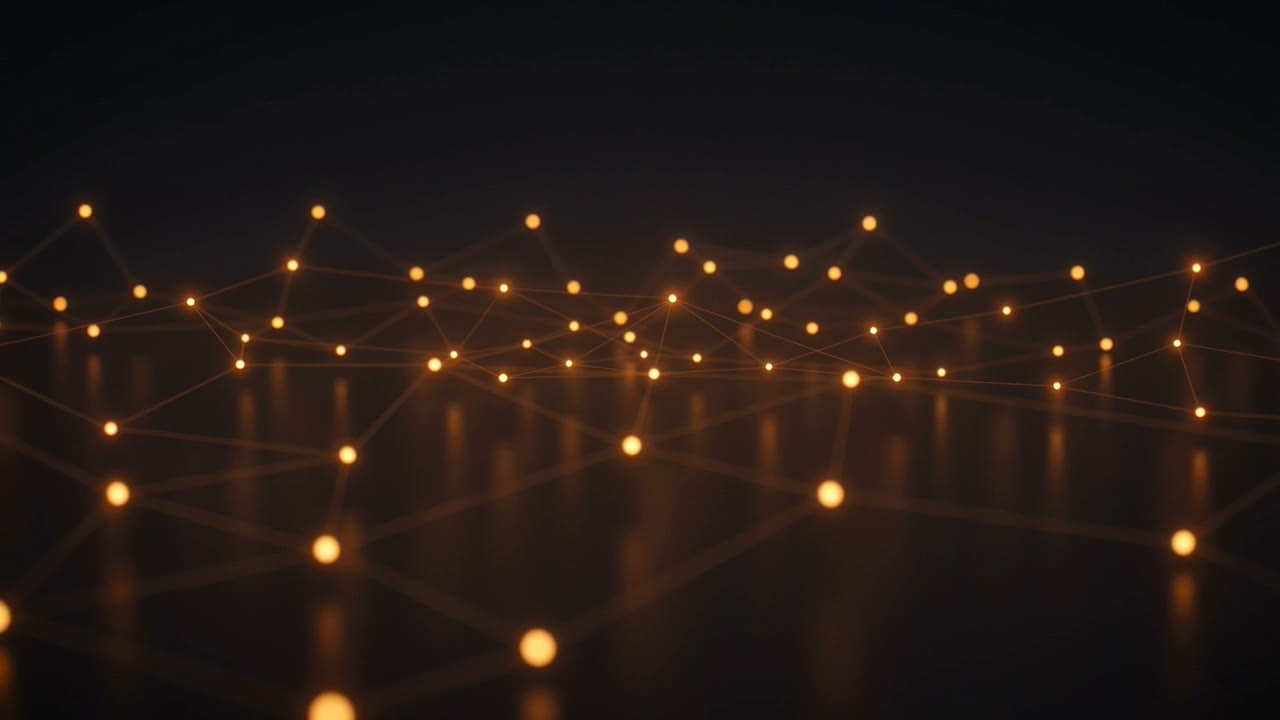
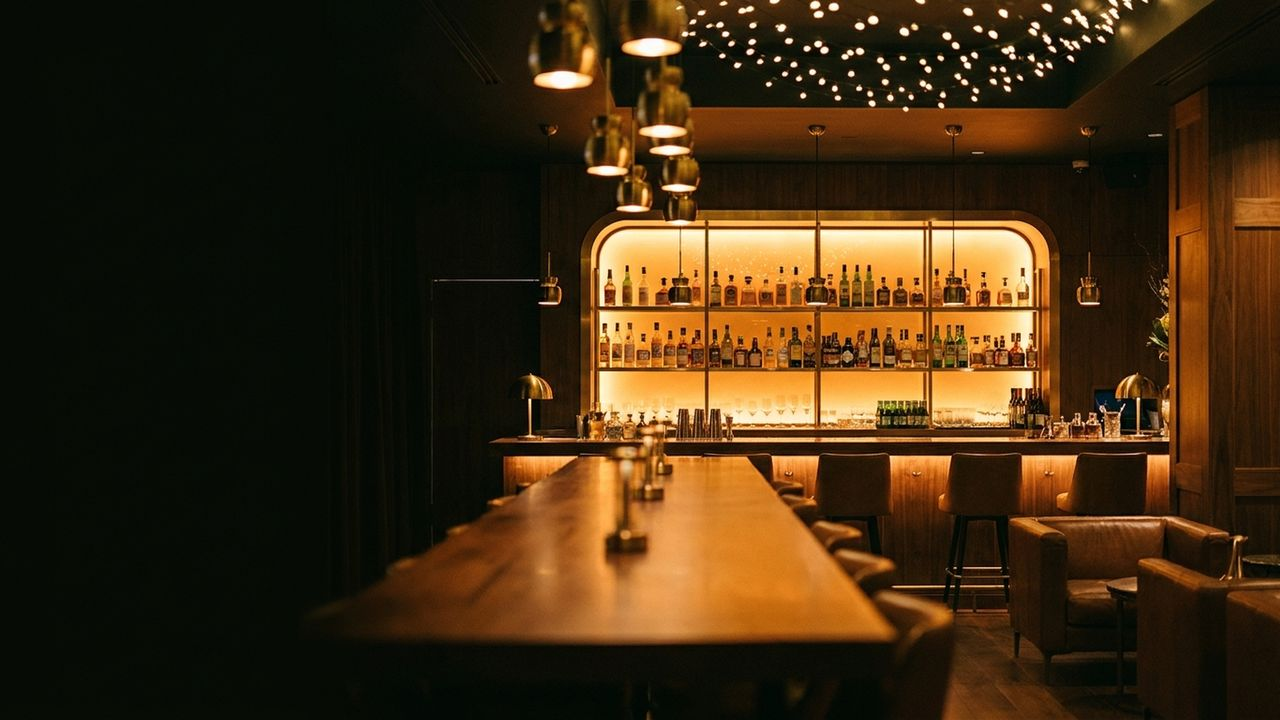
feat(site): warmer bar hero with animated lights + walkthrough nav gold
Replace the formal black-tie video hero with a warm premium lounge bar image
(no people, no formal crowd), optimized to a 98KB webp. The old 1.85MB hero-bg
png and 233KB mp4 are no longer loaded. Add a tasteful twinkling-lights overlay
(12 warm bokeh points, slow CSS twinkle, reduced-motion safe) over the top,
in place of the removed particle network.

Walkthrough: push the nav active accent to gold to match the landing.

diff --git a/index.html b/index.html
@@ -171,6 +171,11 @@
         linear-gradient(180deg, rgba(7,17,31,.62) 0%, rgba(7,17,31,.32) 34%, rgba(7,17,31,.94) 100%),
         radial-gradient(120% 95% at 74% 16%, transparent 0%, rgba(7,17,31,.28) 52%, rgba(7,17,31,.86) 100%);
     }
+
+    .mh-lights { position:absolute; inset:0; z-index:3; pointer-events:none; overflow:hidden; }
+    .mh-lights .lt { position:absolute; width:var(--s,10px); height:var(--s,10px); border-radius:50%; background:radial-gradient(circle, rgba(255,224,156,.95) 0%, rgba(255,206,120,.5) 38%, rgba(255,200,110,0) 72%); opacity:.5; animation:heroTwinkle var(--d,4.5s) ease-in-out infinite; animation-delay:var(--delay,0s); }
+    @keyframes heroTwinkle { 0%,100%{opacity:.26; transform:scale(.82);} 50%{opacity:.95; transform:scale(1.18);} }
+    @media (prefers-reduced-motion: reduce){ .mh-lights .lt { animation:none; opacity:.55; } }
     .hero-motion .hero-layout { position:relative; z-index:4; width:100%; grid-template-columns:1fr; gap:34px; padding-top:110px; padding-bottom:64px; align-items:end; }
     .hero-motion .hero-copy { max-width:920px; }
     .hero-motion .hero-kicker { color:var(--maroon); }
@@ -304,23 +309,13 @@
       <!-- z-0 poster floor: shows with JS off / while video buffers / under reduced-motion -->
       <img loading="lazy" class="mh-poster" src="assets/hero-poster.jpg" alt="" aria-hidden="true"
            onerror="this.style.display='none'">
-      
-      <span>
-        <img loading="lazy" class="mh-bg" src="assets/brand/hero-bg.png" alt="" aria-hidden="true"
-             onerror="this.style.display='none'">
-      </span>
       <!-- z-0 full-bleed bar-lounge scene: warm, demo-safe brand backdrop for the first viewport -->
       <img loading="lazy" class="mh-scene" src="assets/brand/hero-bar-scene.webp" alt="" aria-hidden="true"
            onerror="this.style.display='none'">
       <!-- z-1 canvas particle-network: animated gold-on-dark fallback when the video is absent -->
-      
-      <!-- z-2 looping cinematic video background (assets/hero-bg.mp4) -->
-      <video class="mh-video" autoplay muted loop playsinline preload="auto"
-             poster="assets/hero-poster.jpg" aria-hidden="true">
-        <source src="assets/hero-bg.mp4" type="video/mp4">
-      </video>
       <!-- z-3 dark gradient scrim: keeps headline + body legible over the motion -->
       <div class="mh-scrim" aria-hidden="true"></div>
+      <div class="mh-lights" aria-hidden="true"><span class="lt" style="left:46%;top:7%;--s:12px;--d:4.2s;--delay:0s;"></span><span class="lt" style="left:54%;top:14%;--s:8px;--d:5.1s;--delay:1.1s;"></span><span class="lt" style="left:62%;top:5%;--s:14px;--d:3.8s;--delay:0.5s;"></span><span class="lt" style="left:70%;top:12%;--s:9px;--d:4.8s;--delay:2.0s;"></span><span class="lt" style="left:78%;top:8%;--s:11px;--d:5.4s;--delay:0.8s;"></span><span class="lt" style="left:84%;top:16%;--s:7px;--d:4.0s;--delay:1.6s;"></span><span class="lt" style="left:58%;top:20%;--s:10px;--d:5.0s;--delay:2.6s;"></span><span class="lt" style="left:74%;top:21%;--s:8px;--d:3.6s;--delay:0.3s;"></span><span class="lt" style="left:90%;top:11%;--s:9px;--d:4.6s;--delay:1.3s;"></span><span class="lt" style="left:66%;top:9%;--s:13px;--d:5.6s;--delay:2.2s;"></span><span class="lt" style="left:50%;top:4%;--s:7px;--d:4.4s;--delay:3.0s;"></span><span class="lt" style="left:88%;top:6%;--s:10px;--d:3.9s;--delay:0.9s;"></span></div>
 
       <div class="hero-layout">
         <div class="hero-copy reveal">

diff --git a/assets/mockups/walkthrough/index.html b/assets/mockups/walkthrough/index.html
@@ -13,6 +13,7 @@
       --slate: #64748B;
       --teal: #0D9488;
       --gold: #D6A94A;
+      --gold-soft: rgba(214,169,74,.18);
       --teal-soft: #CCFBF1;
       --bg: #F8FAFC;
       --card: #FFFFFF;
@@ -34,8 +35,8 @@
     .nav-title { font-size: 12px; color: var(--slate); text-transform: uppercase; letter-spacing: .12em; margin: 0 0 12px; }
     .nav-item { width: 100%; border: 0; background: transparent; color: var(--slate); text-align: left; border-radius: 14px; padding: 12px 12px; margin: 3px 0; cursor: pointer; display: flex; gap: 10px; align-items: center; font: inherit; }
     .nav-item span:first-child { width: 28px; height: 28px; border-radius: 999px; display: grid; place-items: center; background: var(--bg); color: var(--slate); font-weight: 800; font-size: 12px; }
-    .nav-item.active { background: var(--teal-soft); color: var(--navy); font-weight: 750; }
-    .nav-item.active span:first-child { background: var(--teal); color: #fff; }
+    .nav-item.active { background: var(--gold-soft); color: var(--navy); font-weight: 750; }
+    .nav-item.active span:first-child { background: var(--gold); color: #fff; }
     main { padding: 34px; }
     .slide { display: none; animation: rise .24s ease-out; }
     .slide.active { display: block; }